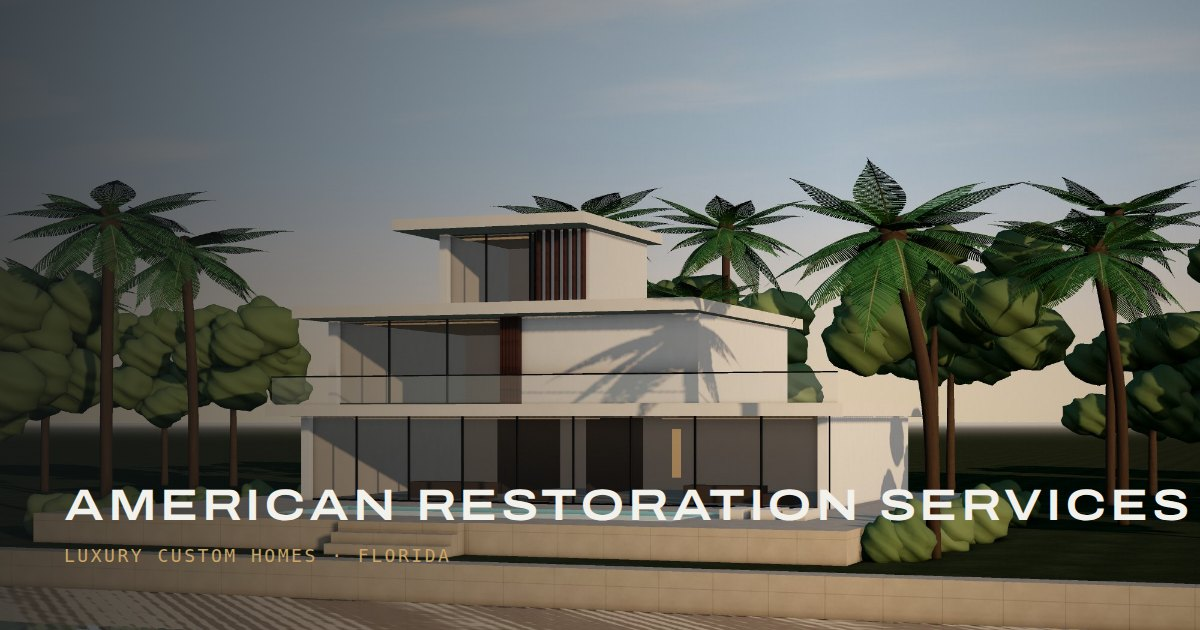
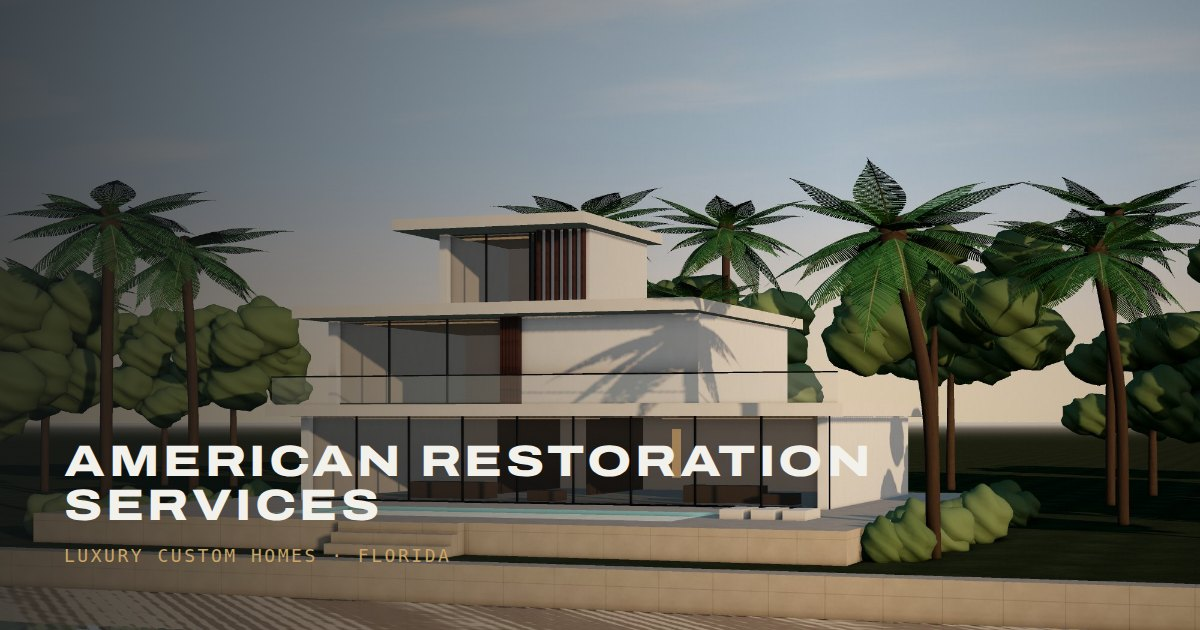
Set the full American Restoration Services name in bold
The logo now stacks "American Restoration" and "Services" in the same
extra-bold expanded type (header, footer and privacy page), replacing
the lighter mono "Services · Miami" line. The copyright line and the
share image use the bold name too.

Claude-Session: https://claude.ai/code/session_016nXFwbKXqHHzuEESuJK4M6

Changed region(s): [[0.0308, 0.6937, 1.0, 0.8444]]

diff --git a/constructora/css/styles.css b/constructora/css/styles.css
@@ -121,11 +121,10 @@ button { font: inherit; }
 }
 .site-header.nav-open { backdrop-filter: none; background: var(--concrete); }
 .header__row { display: flex; align-items: center; justify-content: space-between; gap: 24px; min-height: var(--header-h); }
-.logo { display: inline-grid; gap: 3px; text-decoration: none; line-height: 1.1; }
-.logo__mark { font-family: var(--f-display); font-stretch: 125%; font-weight: 650; letter-spacing: 0.14em; font-size: 0.98rem; text-transform: uppercase; white-space: nowrap; }
-.logo__sub { font-family: var(--f-mono); font-size: 0.68rem; letter-spacing: 0.2em; text-transform: uppercase; opacity: 0.75; }
+.logo { display: inline-grid; gap: 2px; text-decoration: none; line-height: 1.08; }
+.logo__mark { font-family: var(--f-display); font-stretch: 125%; font-weight: 800; letter-spacing: 0.14em; font-size: 0.98rem; text-transform: uppercase; white-space: nowrap; }
 @media (max-width: 1180px) and (min-width: 961px) { .nav a { font-size: 0.875rem; } .nav { gap: 14px; } }
-@media (max-width: 480px) { .header__row { gap: 10px; } .header__tools { gap: 6px; } .logo__mark { font-size: 0.7rem; letter-spacing: 0.06em; } .logo__sub { font-size: 0.58rem; letter-spacing: 0.14em; } }
+@media (max-width: 480px) { .header__row { gap: 10px; } .header__tools { gap: 6px; } .logo__mark { font-size: 0.72rem; letter-spacing: 0.06em; } }
 .logo--light { color: var(--light); }
 
 .nav { display: flex; align-items: center; gap: clamp(16px, 2.2vw, 32px); }
@@ -581,3 +580,4 @@ html[lang="es"] [data-lang="en"], html[lang="en"] [data-lang="es"] { display: no
 .services--four { grid-template-columns: repeat(4, minmax(0, 1fr)); }
 @media (max-width: 1100px) { .services--four { grid-template-columns: repeat(2, minmax(0, 1fr)); } }
 @media (max-width: 700px) { .services--four { grid-template-columns: minmax(0, 1fr); } }
+.footer__small strong, .footer__legal strong { color: var(--light); font-weight: 700; }

diff --git a/constructora/index.html b/constructora/index.html
@@ -41,7 +41,7 @@
     <div class="wrap header__row">
       <a class="logo" href="#top" aria-label="American Restoration Services">
         <span class="logo__mark">American Restoration</span>
-        <span class="logo__sub">Services · Miami</span>
+        <span class="logo__mark">Services</span>
       </a>
       <nav class="nav" id="site-nav" aria-label="Main">
         <a href="#models" data-i18n="nav.models">Home models</a>
@@ -641,7 +641,7 @@
   <footer class="footer">
     <div class="wrap footer__grid">
       <div>
-        <a class="logo logo--light" href="#top" aria-label="American Restoration Services"><span class="logo__mark">American Restoration</span><span class="logo__sub">Services · Miami</span></a>
+        <a class="logo logo--light" href="#top" aria-label="American Restoration Services"><span class="logo__mark">American Restoration</span><span class="logo__mark">Services</span></a>
         <p class="footer__small" data-i18n="footer.tag">Luxury homes, custom builds and restoration in Miami-Dade and Broward.</p>
       </div>
       <nav class="footer__nav" aria-label="Footer">
@@ -654,7 +654,7 @@
       <div class="footer__small">
         <!-- PLACEHOLDER: real license number -->
         <p data-i18n="footer.license">Florida Certified General Contractor · Lic. CGC0000000</p>
-        <p>© <span data-year>2026</span> American Restoration Services</p>
+        <p>© <span data-year>2026</span> <strong>American Restoration Services</strong></p>
       </div>
     </div>
     <div class="wrap footer__legal">

diff --git a/constructora/privacy.html b/constructora/privacy.html
@@ -16,7 +16,7 @@
   <!-- Draft privacy policy. Have it reviewed by a lawyer before publishing. -->
   <header class="site-header site-header--solid" id="top">
     <div class="wrap header__row">
-      <a class="logo" href="index.html" aria-label="American Restoration Services"><span class="logo__mark">American Restoration</span><span class="logo__sub">Services · Miami</span></a>
+      <a class="logo" href="index.html" aria-label="American Restoration Services"><span class="logo__mark">American Restoration</span><span class="logo__mark">Services</span></a>
       <div class="header__tools">
         <a class="legal-back" href="index.html" data-i18n="nav.back">← Back to site</a>
         <div class="lang" role="group" aria-label="Language" data-i18n-attr="aria-label:nav.lang">
@@ -103,7 +103,7 @@
 
   <footer class="footer">
     <div class="wrap footer__legal">
-      <span>© <span data-year>2026</span> American Restoration Services</span>
+      <span>© <span data-year>2026</span> <strong>American Restoration Services</strong></span>
       <a href="index.html" data-i18n="nav.home">Home</a>
     </div>
   </footer>
